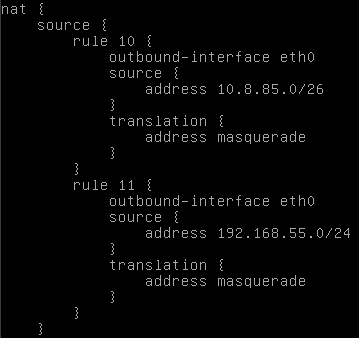
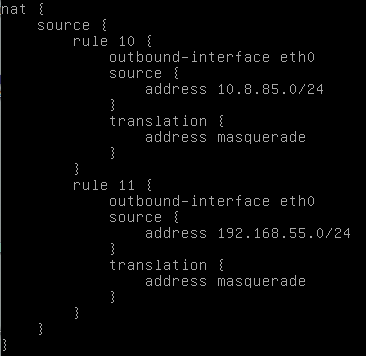
e10 fix

diff --git a/documentation/E10.md b/documentation/E10.md
@@ -36,7 +36,7 @@ set nat source rule 10 outbound-interface eth0
 
 set nat source rule 10 translation address masquerade
 
-set nat source rule 10 source address 10.8.85.0/26
+set nat source rule 10 source address 10.8.85.0/24
 
 set nat source rule 11 outbound-interface eth0
 
@@ -44,15 +44,7 @@ set nat source rule 11 translation address masquerade
 
 set nat source rule 11 source address 192.168.55.0/24
 
-set nat source rule 12 outbound-interface eth0
-
-set nat source rule 12 translation address masquerade
-
-set nat source rule 12 source address 10.8.85.0/28
-
 ![nat vyos 3 conf](./E10/nat%20config.png)
-
-![nat 2 vyos 3 conf](./E10/nat2config.png)
 
 Nat osoitteeseen maskiksi pitää laittaa 2 alempi, kuin mikä on aliverkon maski, koska se lisää joustavuutta ja mahdollistaa useamman laitteen yhdistämisen NAT-osoitteeseen
 
